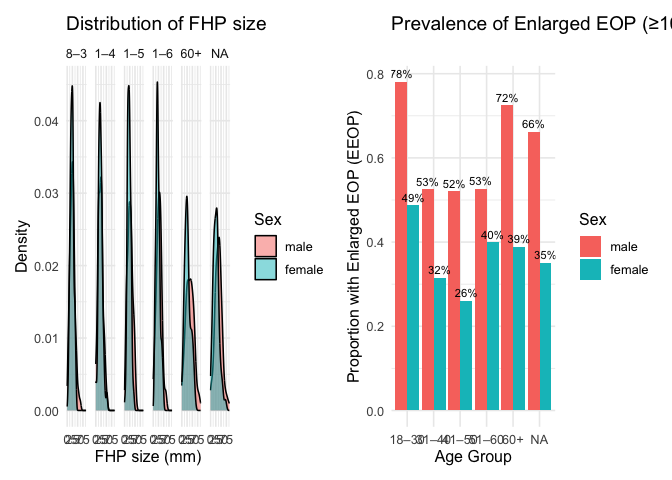
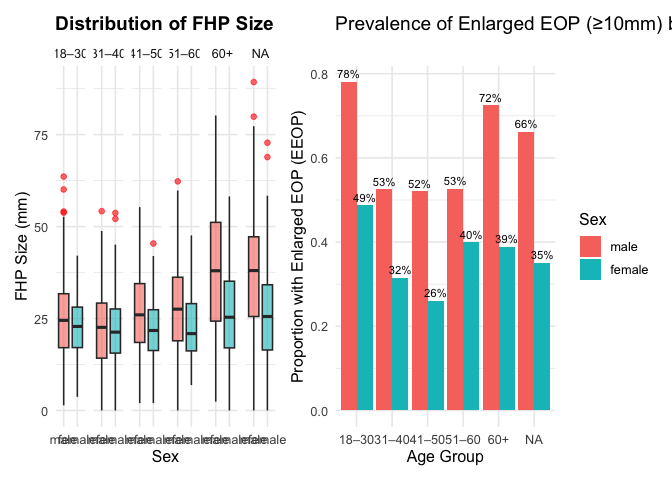
update plots

diff --git a/p8105_mtp_yz5248.md b/p8105_mtp_yz5248.md
@@ -229,26 +229,30 @@ measurements.
 ``` r
 plot_df = raw_df |>
   mutate(
-    eeop = eop_size == c("large (10mm+)"),
+    eeop = eop_size == "large (10mm+)",
     fhp_mm = fhp_size_mm
   )
 
 new_Figure3 = plot_df |>
-  ggplot(aes(x = fhp_size_mm, fill = sex)) +
-  geom_density(alpha = 0.5) +
+  ggplot(aes(x = sex, y = fhp_size_mm, fill = sex)) +
+  geom_boxplot(alpha = 0.6, outlier.color = "red") +
   facet_wrap(~ age_group, nrow = 1) +
   labs(
-    title = "Distribution of FHP size",
-    x = "FHP size (mm)",
-    y = "Density",
+    title = "Distribution of FHP Size",
+    x = "Sex",
+    y = "FHP Size (mm)",
     fill = "Sex"
   ) +
-  theme_minimal(base_size = 12)
-new_Figure3 
+  theme_minimal(base_size = 12) +
+  theme(
+    legend.position = "none",
+    plot.title = element_text(face = "bold")
+  )
+new_Figure3
 ```
 
     ## Warning: Removed 6 rows containing non-finite outside the scale range
-    ## (`stat_density()`).
+    ## (`stat_boxplot()`).
 
 ![](p8105_mtp_yz5248_files/figure-gfm/unnamed-chunk-5-1.png)<!-- -->
 
@@ -293,11 +297,11 @@ two_panel_fig
 ```
 
     ## Warning: Removed 6 rows containing non-finite outside the scale range
-    ## (`stat_density()`).
+    ## (`stat_boxplot()`).
 
 ![](p8105_mtp_yz5248_files/figure-gfm/unnamed-chunk-5-3.png)<!-- -->
-Left panel shows right-skewed patterns and larger fhp in males and older
-participants—details hidden in the original summary statistics.  
+Left panel shows larger fhp in males and older participants—details
+hidden in the original summary statistics.  
 Right panel, the plot shows that the prevalence of enlarged eop
 increases with age in both males and females, with males generally
 having a higher prevalence across all age groups.  
